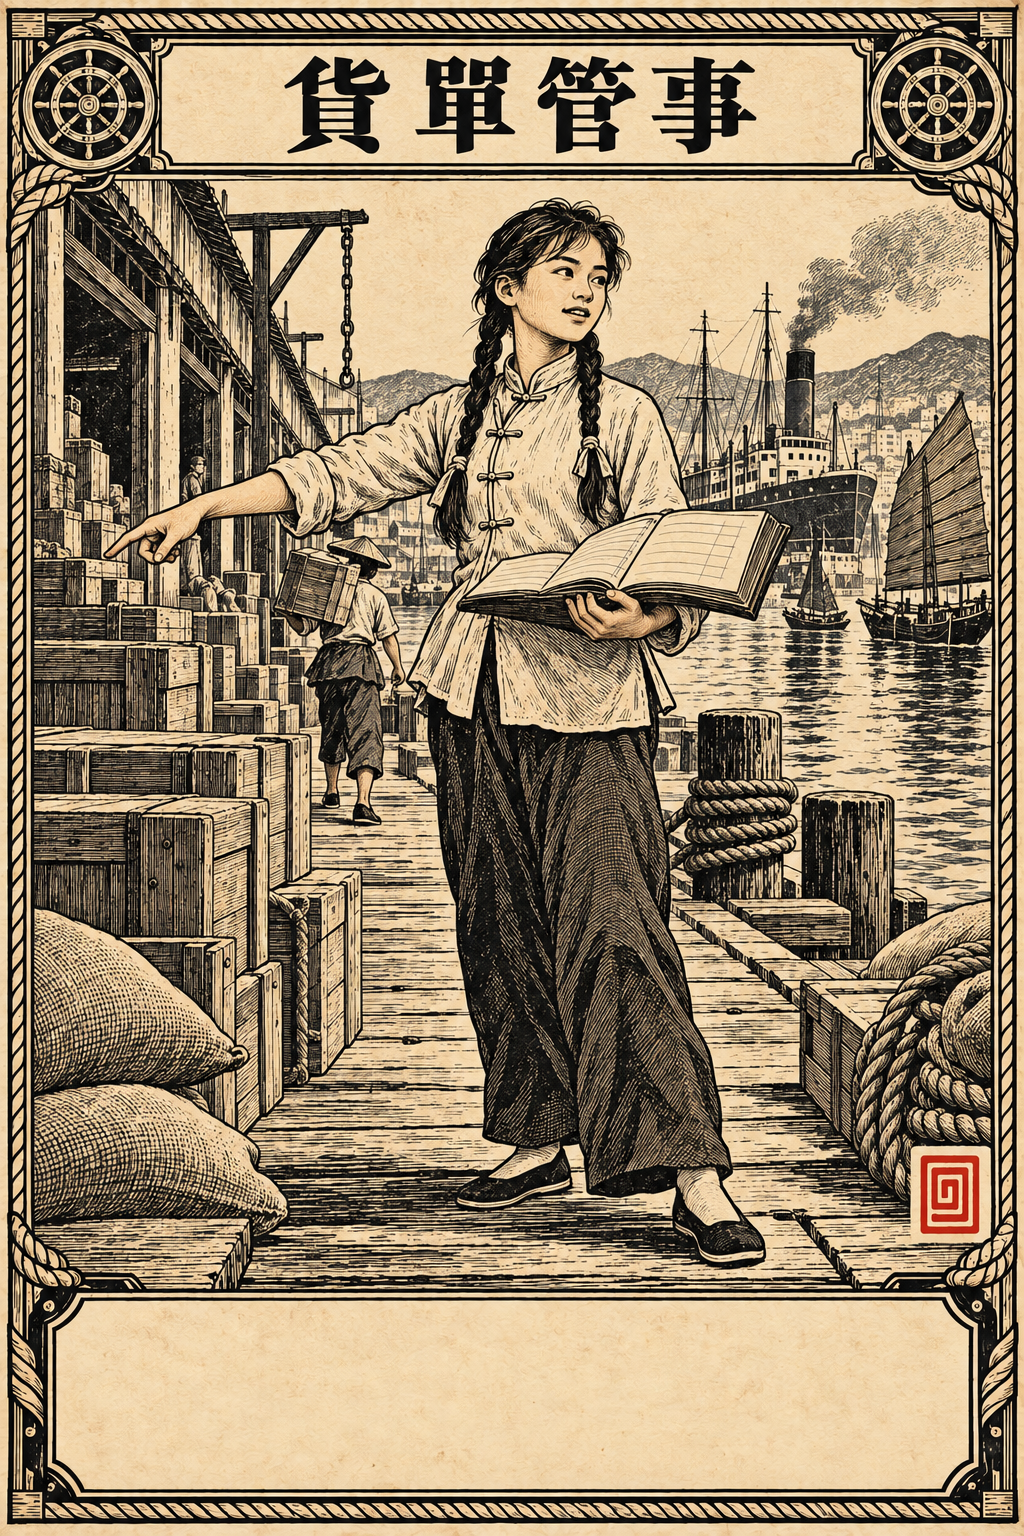
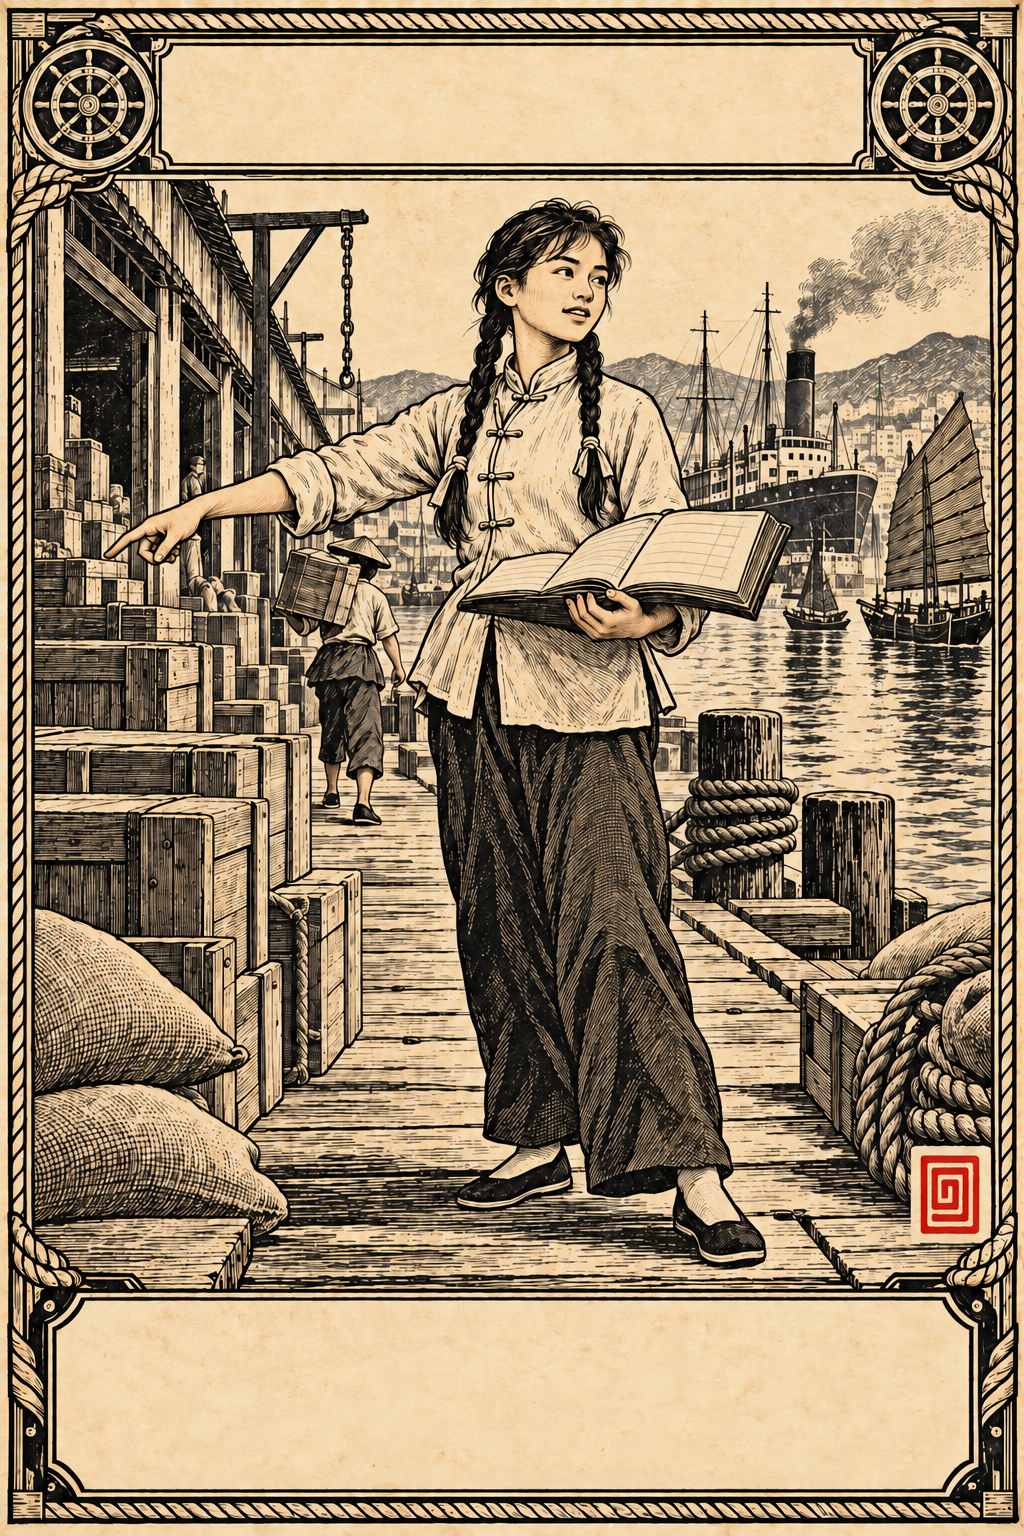
調整香港商埠卡片姓名排版
採用新版男女底圖，暱稱置頂，姓名及班別／學號置底。沿用原字體、縮字及完整文字彈窗，更新香港卡專用排位及 CMS 提示
附實際本機畫面；真人登入仍未測

Changed region(s): [[0.0, 0.0, 1.0, 1.0], [0.4062, 0.0, 0.5312, 0.125], [0.5938, 0.9688, 0.625, 1.0]]

diff --git a/client/src/cards.css b/client/src/cards.css
@@ -47,12 +47,13 @@
 .explorer-card-figure[data-card-image="/history-quest/uploads/wwi-s4-battle-girl-v1.png"] .explorer-card-nickname { left: 12.9%; top: 2.86%; width: 62.9%; height: 5.08%; }
 .explorer-card-figure[data-card-image="/history-quest/uploads/wwi-s4-battle-girl-v1.png"] .explorer-card-identity { left: 21.6%; top: 89.7%; width: 55.6%; height: 4.8%; }
 
-/* Hong Kong newspaper cards have a printed role title at the top.
-   Both dynamic labels share the blank lower plaque; retain the full 2:3 art. */
+/* Hong Kong newspaper cards keep the upper plaque clear for the nickname.
+   Name and class/student number share the lower plaque; retain the full 2:3 art. */
 .explorer-card-hk-port { color: #211e18; }
 .explorer-card-hk-port > img { border-radius: 0; }
-.explorer-card-hk-port .explorer-card-nickname { left: 12%; top: 86.1%; width: 76%; height: 5.2%; }
-.explorer-card-hk-port .explorer-card-identity { left: 14%; top: 92%; width: 72%; height: 3.8%; }
+.explorer-card-hk-port .explorer-card-nickname { left: 22%; top: 3.7%; width: 56%; height: 6.4%; }
+.explorer-card-hk-port .explorer-card-identity { left: 14%; top: 87.3%; width: 72%; height: 4.2%; }
+.explorer-card-hk-port .explorer-card-metadata { left: 14%; top: 92.4%; width: 72%; height: 3.1%; }
 
 /* Both full-bleed Kabuki cards reserve these blank plaque interiors.
    Keep nickname and name as fitted, accessible text rather than baked-in art. */

diff --git a/client/src/components/ExplorerCard.tsx b/client/src/components/ExplorerCard.tsx
@@ -14,13 +14,14 @@ function FittedLabel({
   kind,
 }: {
   text: string;
-  kind: "nickname" | "identity";
+  kind: "nickname" | "identity" | "metadata";
 }) {
   const ref = useRef<HTMLButtonElement>(null);
   const measureRef = useRef<HTMLSpanElement>(null);
-  const maximum = kind === "nickname" ? 21 : 14;
+  const maximum = kind === "nickname" ? 21 : kind === "metadata" ? 11 : 14;
   const minimum = kind === "nickname" ? 11 : 10;
-  const label = kind === "nickname" ? "暱稱" : "姓名";
+  const label =
+    kind === "nickname" ? "暱稱" : kind === "metadata" ? "班別及學號" : "姓名";
   const [fit, setFit] = useState({ size: maximum, lines: 1, truncated: false });
 
   useLayoutEffect(() => {
@@ -162,6 +163,12 @@ export default function ExplorerCard({
         />
         <FittedLabel text={nickname} kind="nickname" />
         <FittedLabel text={identity} kind="identity" />
+        {card.edition === "hk-port" && (
+          <FittedLabel
+            text={`班別：${profile.className}　學號：${profile.studentNo}`}
+            kind="metadata"
+          />
+        )}
       </div>
     </figure>
   );
